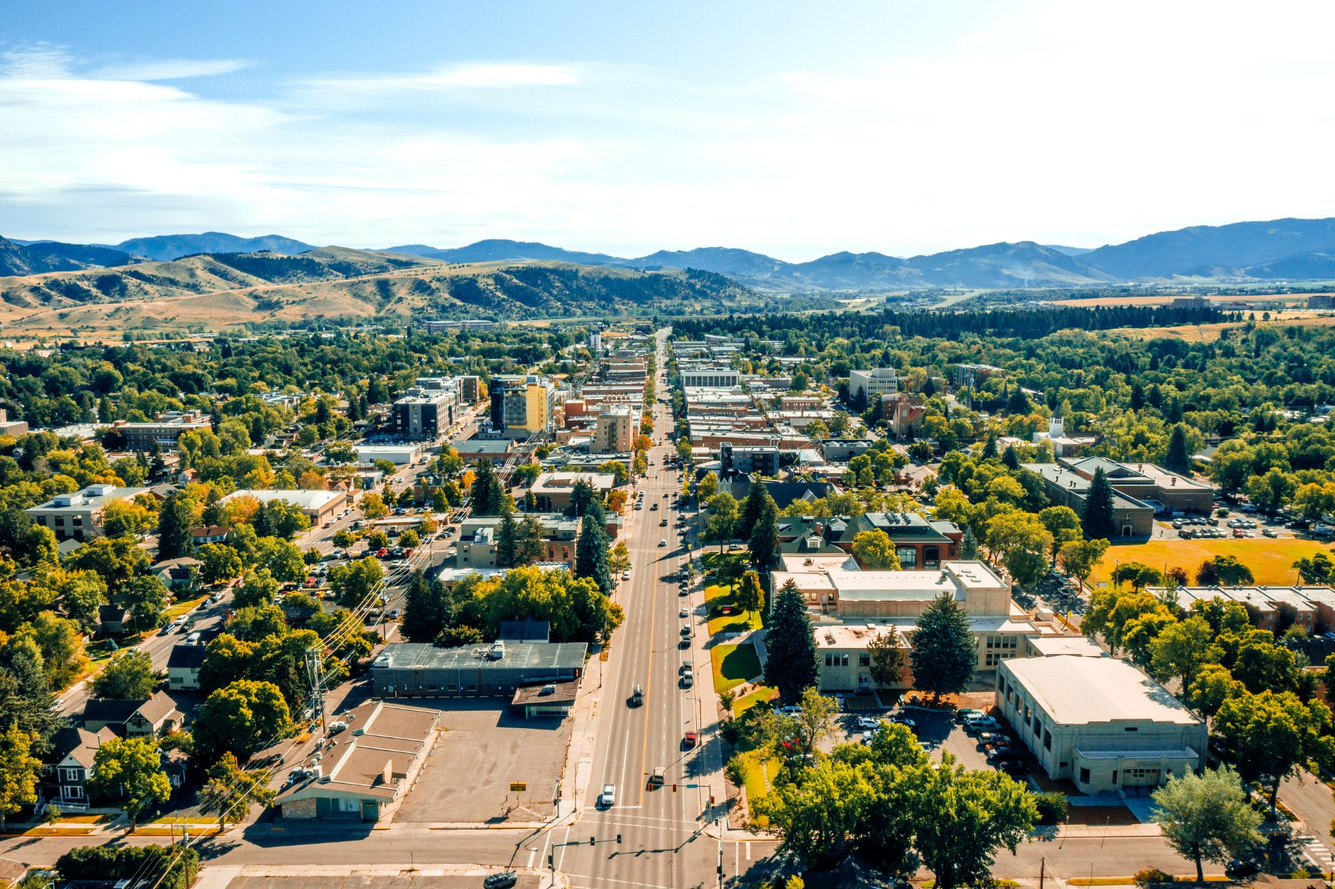
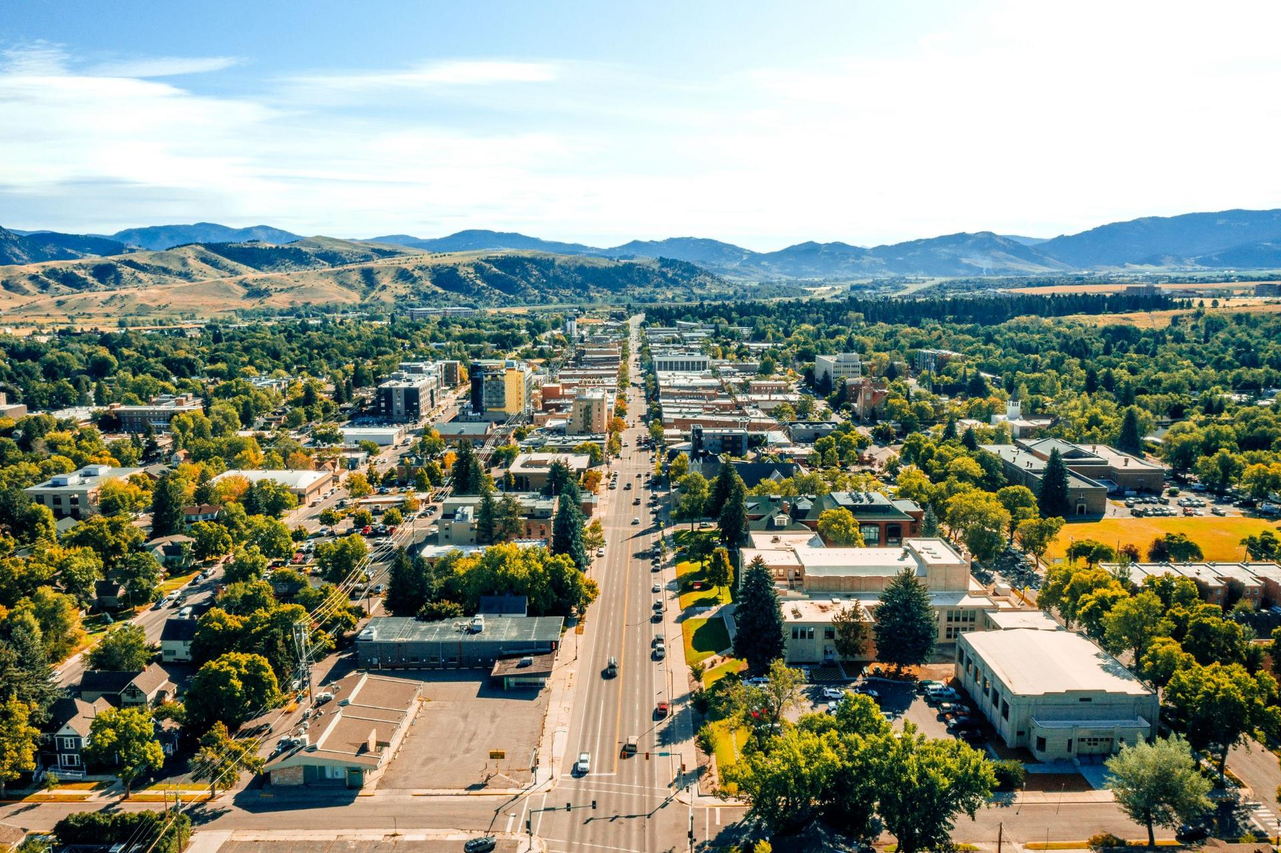
Optimize images and add performance improvements
- Compressed all images with sharp: ~9MB -> 3.7MB total
  - 851-west-grand: 1.8MB -> 153KB
  - nicholas-kowieski: 2.2MB -> 49KB
  - home-hero removed (unused, replaced by slideshow)
- Converted all team images to proper JPEG format
- Added font stylesheet preload for faster FCP
- Added first hero image preload for faster LCP

diff --git a/src/data/team.ts b/src/data/team.ts
@@ -50,7 +50,7 @@ export const team: TeamMember[] = [
     id: 'dawn-evans',
     name: 'Dawn Evans',
     title: 'VP Finance and Controller',
-    image: '/assets/team/dawn-evans.webp',
+    image: '/assets/team/dawn-evans.jpg',
     role: 'leadership',
     bio: [
       'Bringing over 25 years of real estate finance and accounting expertise, Dawn serves as the Vice President of Finance and Controller for Monroe Residential Partners. In this role, she expertly manages all accounting, finance, treasury operations, and financial reporting processes. She also oversees budgets and internal human resources functions.',
@@ -85,7 +85,7 @@ export const team: TeamMember[] = [
     id: 'jeremy-reis',
     name: 'Jeremy E. Reis',
     title: 'General Counsel',
-    image: '/assets/team/jeremy-reis.png',
+    image: '/assets/team/jeremy-reis.jpg',
     role: 'leadership',
     bio: [
       'Jeremy is a principal in the law firm Ruttenberg Gilmartin Reis LLC. Jeremy has a wide range of expertise, including residential and commercial acquisitions and dispositions, development and real estate based corporate matters. In his role as General Counsel to Monroe Residential Partners, Jeremy is an advisor and provides legal guidance in all matters to Monroe Residential Partners.',
@@ -95,7 +95,7 @@ export const team: TeamMember[] = [
     id: 'gary-kachadurian',
     name: 'Gary T. Kachadurian',
     title: 'Advisor',
-    image: '/assets/team/gary-kachadurian.png',
+    image: '/assets/team/gary-kachadurian.jpg',
     role: 'advisor',
     bio: [
       'Gary has over 30 years of real estate experience specializing in land and asset acquisition, construction, development, financing, and management.',

diff --git a/index.html b/index.html
@@ -10,10 +10,14 @@
     <link rel="icon" type="image/svg+xml" href="/favicon.svg" />
     <link rel="apple-touch-icon" href="/favicon.svg" />
 
-    <!-- Google Fonts -->
+    <!-- Google Fonts - preconnect + preload for faster FCP -->
     <link rel="preconnect" href="https://fonts.googleapis.com" />
     <link rel="preconnect" href="https://fonts.gstatic.com" crossorigin />
+    <link rel="preload" as="style" href="https://fonts.googleapis.com/css2?family=Inter:wght@300;400;500;600;700&family=Playfair+Display:wght@400;500;600;700&display=swap" />
     <link href="https://fonts.googleapis.com/css2?family=Inter:wght@300;400;500;600;700&family=Playfair+Display:wght@400;500;600;700&display=swap" rel="stylesheet" />
+
+    <!-- Preload first hero image for faster LCP -->
+    <link rel="preload" as="image" href="/assets/hero/teton-mountain-pass.jpg" />
 
     <!-- Open Graph -->
     <meta property="og:title" content="Monroe Residential Partners" />
